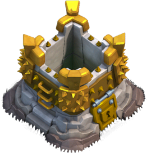
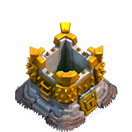
papasar derama

diff --git a/Bullet.cpp b/Bullet.cpp
@@ -7,11 +7,18 @@
 void Bullet::moveToward()
 {
 	//Calcular el vector de direccion entre la torre y el objetivo
-	sf::Vector2f _direction = getEnemyPosition() - getPosition();
-	float length = std::sqrt(_direction.x * _direction.x + _direction.y * _direction.y);
-	_direction /= length;
+	sf::Vector2f direction = _enemyPosition - getPosition();
+	float distanceToTarget = std::sqrt(direction.x * direction.x + direction.y * direction.y);
 
-	move(_direction * _speed);
+	if (distanceToTarget < 1.0f) // Threshold distance
+	{
+		setPosition(_enemyPosition);
+	}
+	else
+	{
+		direction /= distanceToTarget;
+		move(direction * _speed);
+	}
 }
 
 sf::FloatRect Bullet::getBounds() const

diff --git a/TowerWenner.cpp b/TowerWenner.cpp
@@ -6,7 +6,7 @@
 
 TowerWenner::TowerWenner()
 {
-	if (!_texture.loadFromFile("img/towers/torreB_1.png")) {
+	if (!_texture.loadFromFile("img/towers/torreB_3.png")) {
 		throw std::runtime_error("Error img Tower Wenner");
 	}
 	_sprite.setTexture(_texture);
@@ -57,7 +57,7 @@ void TowerWenner::upgrade()
 	case 2:
 	{
 		_name = "estadistica";
-		if (!_texture.loadFromFile("img/towers/torreB_3.png")) {
+		if (!_texture.loadFromFile("img/towers/torreB_4.png")) {
 			throw std::runtime_error("Error img tower estadistica");
 		}
 		_sprite.setTexture(_texture);

diff --git a/Level1.cpp b/Level1.cpp
@@ -160,7 +160,7 @@ Level1::Level1()
 	_UTNRed.setOrigin(_UTNRed.getGlobalBounds().width / 2, _UTNRed.getGlobalBounds().height / 2);
 
 	setSpots(arr, _spots, 5);
-	_golden = 1000;
+	_golden = 10000;
 	_energy = 500;
 	_ui.setText(0, std::to_string(getGolden()));
 	_ui.setText(1, std::to_string(getEnergy()));

diff --git a/TowerSarF.cpp b/TowerSarF.cpp
@@ -73,7 +73,7 @@ void TowerSarF::upgrade()
 	case 1:
 	{
 		_name = "Torre MAXI F";
-		if (!_texture.loadFromFile("img/towers/torreD_4.png")) {
+		if (!_texture.loadFromFile("img/towers/torreD_3.png")) {
 			throw std::runtime_error("Error img tower MAXI F");
 		}
 		_sprite.setTexture(_texture);

diff --git a/TowerKloster.cpp b/TowerKloster.cpp
@@ -6,7 +6,7 @@
 
 TowerKloster::TowerKloster()
 {
-	if (!_texture.loadFromFile("img/towers/torreC_1.png")) {
+	if (!_texture.loadFromFile("img/towers/torreC_2.png")) {
 		throw std::runtime_error("Error img Tower Kloster");
 	}
 	_sprite.setTexture(_texture);
